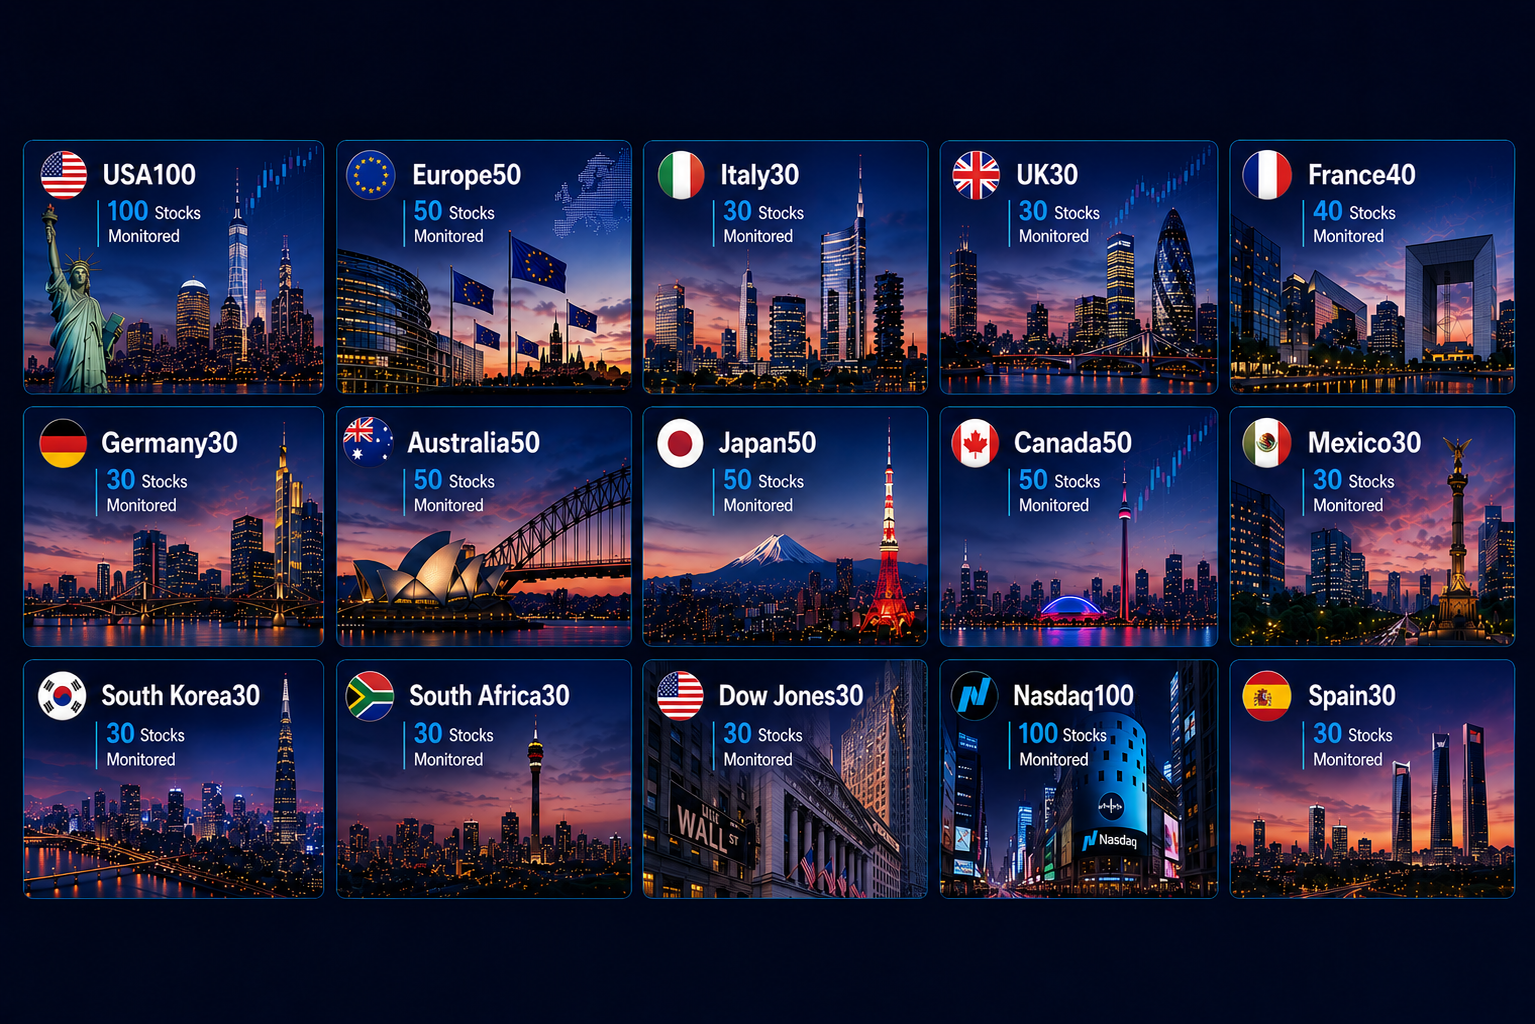
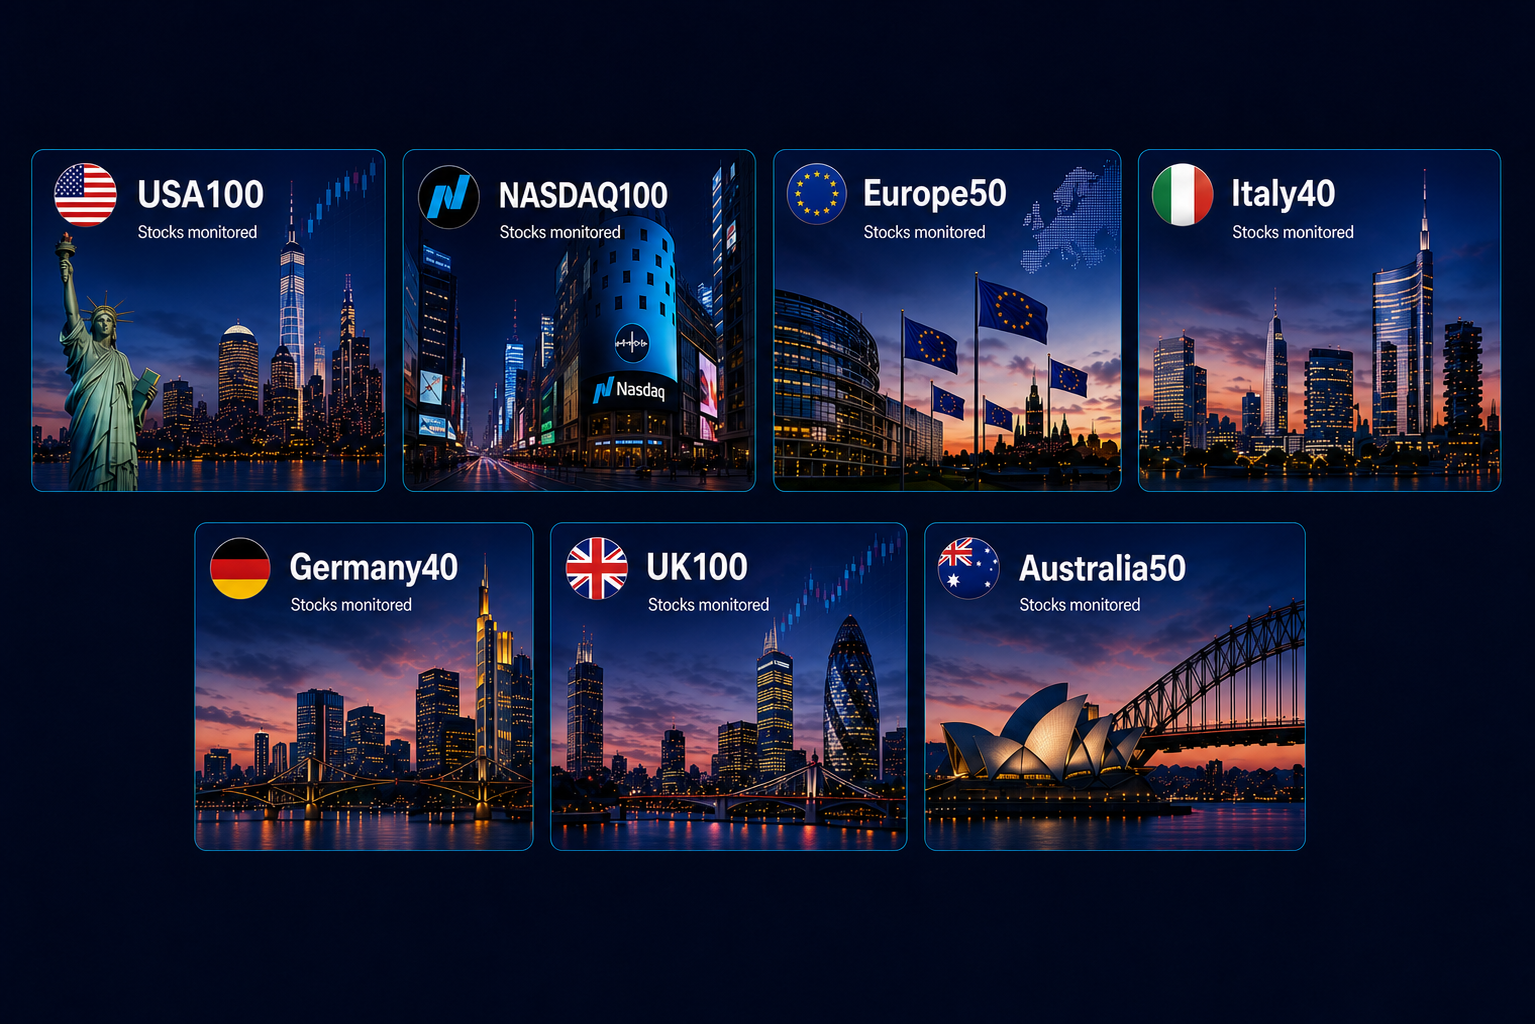
Update homepage market coverage

diff --git a/index.html b/index.html
@@ -1606,15 +1606,15 @@
 
         <div class="hero-metrics" aria-label="TradingAlgo Mosaic coverage">
           <div class="hero-metric">
-            <strong>15</strong>
+            <strong>7</strong>
             <span>Markets</span>
           </div>
           <div class="hero-metric">
-            <strong>600+</strong>
+            <strong>500</strong>
             <span>Stocks monitored</span>
           </div>
           <div class="hero-metric">
-            <strong>75</strong>
+            <strong>35</strong>
             <span>Weekly selections</span>
           </div>
           <div class="hero-metric">
